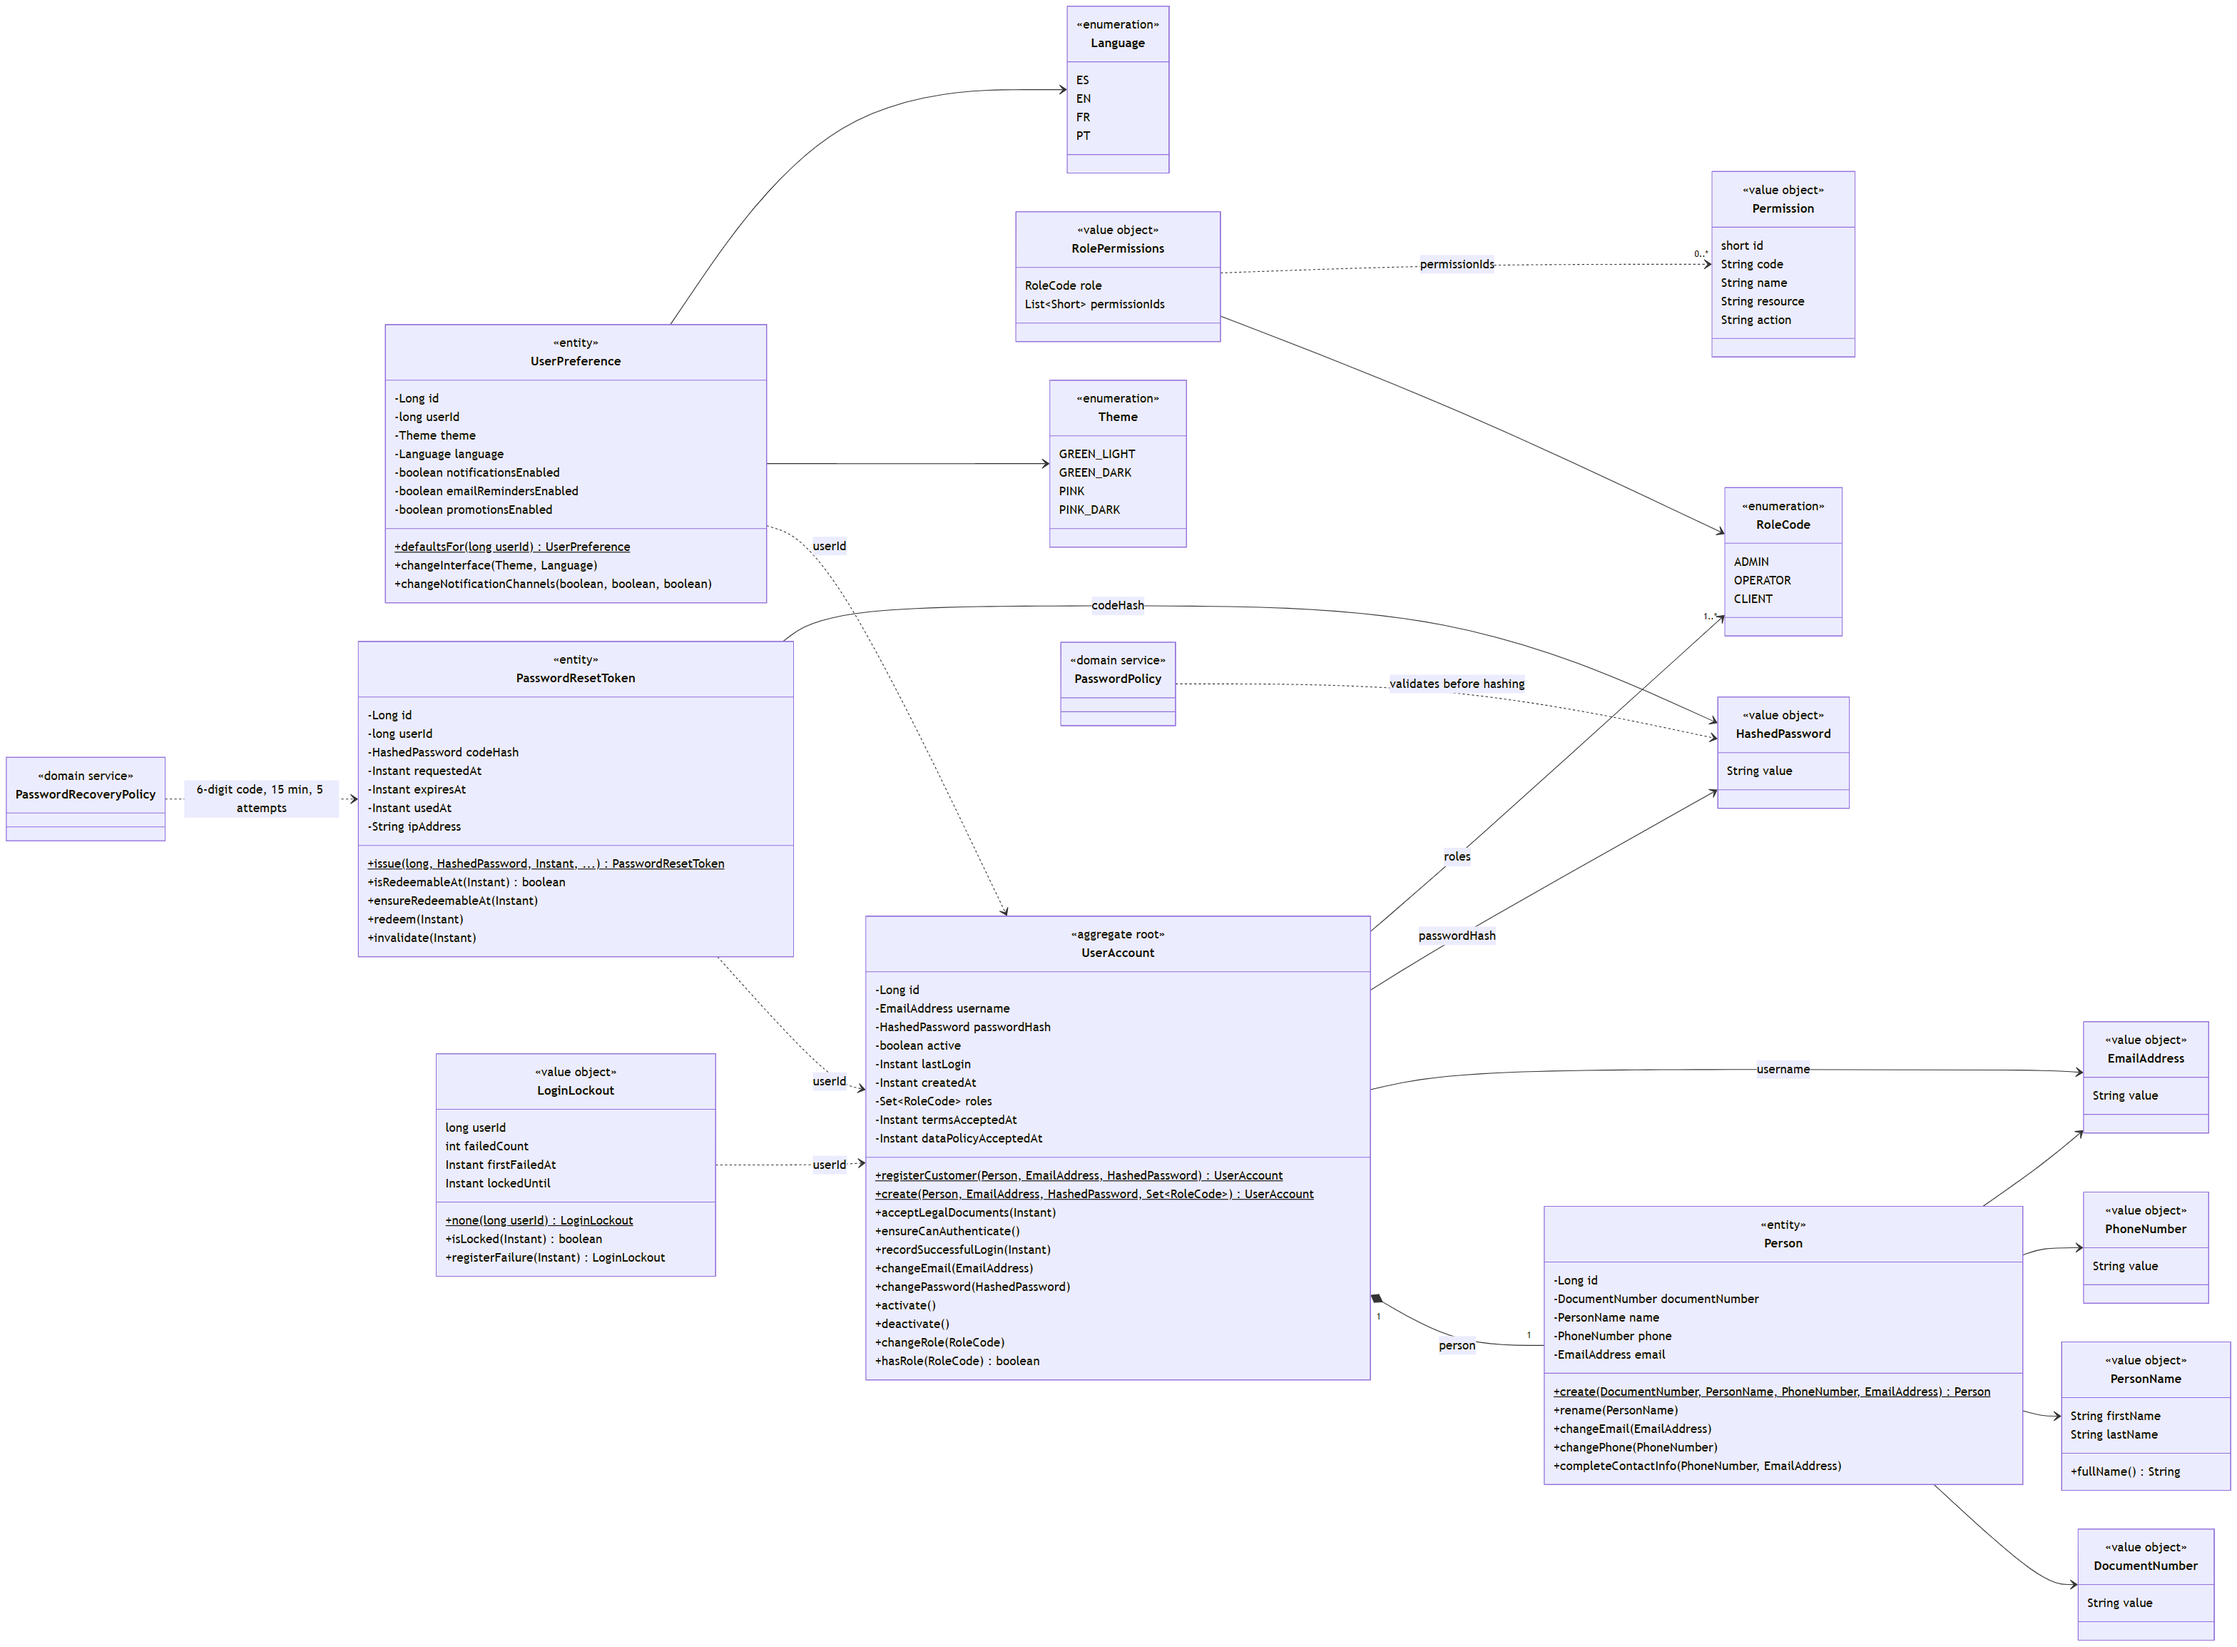
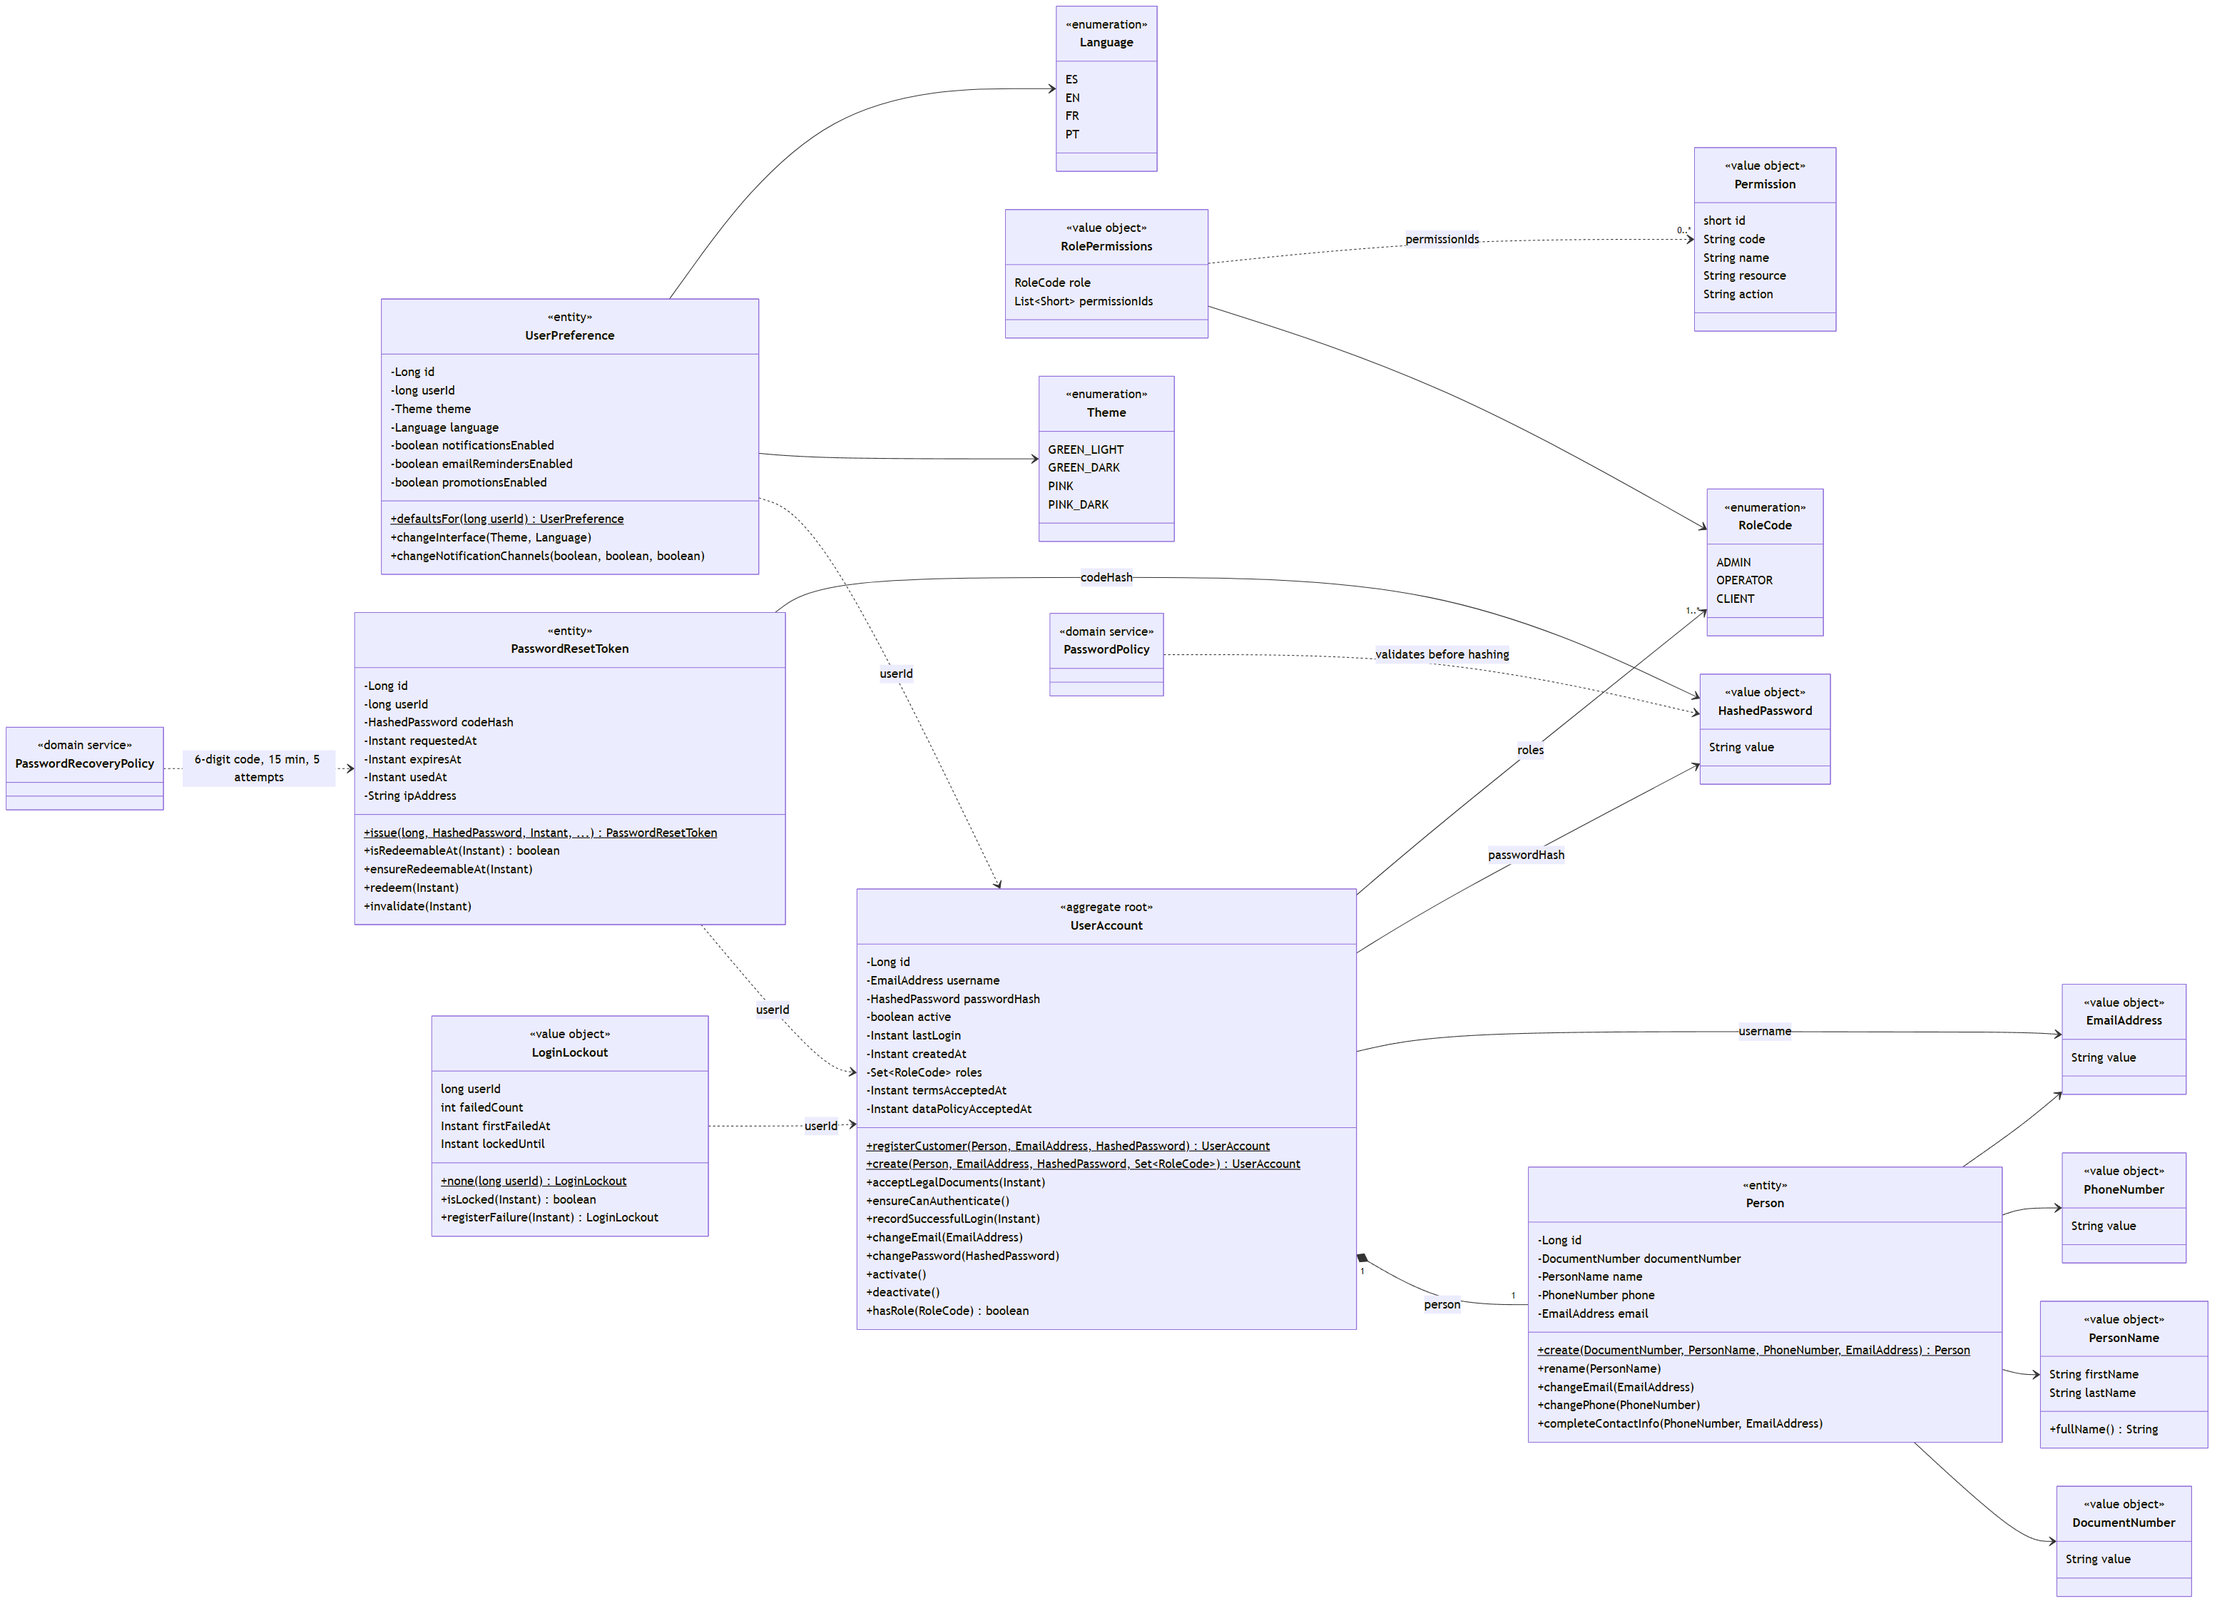
docs(security): remove the admin role change endpoint

diff --git a/08-uml/diagrams/source/state-user-account.md b/08-uml/diagrams/source/state-user-account.md
@@ -2,7 +2,7 @@
 
 Source: `security-service` `UserAccount` (`activate`, `deactivate`, `ensureCanAuthenticate`),
 `LoginLockout`, `AuthenticationService`, `UserAdministrationService.changeStatus`,
-`UserAdministrationService.changeRole`, `AccountDeactivationService.deactivateOwnAccount`,
+`AccountDeactivationService.deactivateOwnAccount`,
 `PasswordRecoveryService.resetPassword`.
 Checked on 2026-10-19.
 
@@ -19,7 +19,6 @@ stateDiagram-v2
         Unlocked --> Unlocked : successful login (clears the count)
     }
 
-    Active --> Active : admin changes its role (not their own, sessions closed)
     Active --> Inactive : admin deactivates it (not an admin account, not their own)
     Active --> Inactive : the user closes their account (password, not an admin)
     Inactive --> Active : admin activates it
@@ -31,6 +30,5 @@ stateDiagram-v2
 | An `Inactive` account answers 403 `ACCOUNT_DISABLED`, checked only after the right password | `UserAccount.ensureCanAuthenticate` |
 | An inactive account cannot ask for a recovery code (the answer looks the same) | `PasswordRecoveryService.findActiveAccount` |
 | An admin cannot deactivate their own account, from the user list or from the profile → 403 `CANNOT_DISABLE_OWN_ACCOUNT` | `CannotDisableOwnAccountException` |
-| No admin account can be deactivated; its role must be changed first → 403 `ADMIN_CANNOT_BE_DISABLED` | `AdminAccountCannotBeDisabledException` |
-| An account has one role; the new one replaces the old one, the user must log in again, and nobody changes their own role → 403 `CANNOT_CHANGE_OWN_ROLE` | `UserAccount.changeRole`, `PATCH /api/v1/admin/users/{id}/role` |
+| No admin account can be deactivated → 403 `ADMIN_CANNOT_BE_DISABLED` | `AdminAccountCannotBeDisabledException` |
 | Closing one's own account asks for the current password and closes every session | `AccountDeactivationService` |

diff --git a/08-uml/diagrams/source/uc-backend-mapping.md b/08-uml/diagrams/source/uc-backend-mapping.md
@@ -36,7 +36,7 @@ or an event listener. One use case can use several ports and services. Checked a
 | CU24 | Manage promotions | payment | `IPromotionAdminUseCases` (list, metrics, create, update, setActive, delete) |
 | CU25 | Apply promotion at payment | payment | `ICustomerPromotionUseCases.ListAvailableAsync`, `RedeemAsync`; `ILoyaltyUseCases.BalanceAsync` |
 | CU26 | Manage vehicles | customer | `ListCustomerVehiclesUseCase`, `GetCustomerVehicleUseCase`, `RegisterCustomerVehicleUseCase`, `UpdateCustomerVehicleUseCase`, `RemoveCustomerVehicleUseCase`, `ListVehicleTypesUseCase` |
-| CU27 | Administer users and permissions | security | `ListUserAccountsUseCase`, `CreateUserAccountUseCase`, `ChangeAccountStatusUseCase`, `ChangeAccountRoleUseCase`, `ListRolePermissionsUseCase`, `UpdateRolePermissionsUseCase` |
+| CU27 | Administer users and permissions | security | `ListUserAccountsUseCase`, `CreateUserAccountUseCase`, `ChangeAccountStatusUseCase`, `ListRolePermissionsUseCase`, `UpdateRolePermissionsUseCase` |
 | CU28 | Manage payment accounts | payment | `IPaymentAccountUseCases.ListAllAsync`, `ListMethodsAsync`, `CreateAsync`, `UpdateAsync` |
 | CU29 | Manage bookings | booking, customer | `BookingUseCase.list`, `get`, `create` (for a client), `reschedule`, `changeStatus`; `LookupVehiclesUseCase` |
 | CU30 | Record inspection report | operations | `InspectionUseCase` (forBooking, start, setPhaseStatus, addFinding, removeFinding, publish, share; `published` for the client's link) |

diff --git a/09-microservices/services/02-security-service/README.md b/09-microservices/services/02-security-service/README.md
@@ -74,7 +74,6 @@
 | GET · PUT | `/api/v1/users/me/preferences` (theme, language and the notification switches `notificationsEnabled` = push, `emailRemindersEnabled`, `promotionsEnabled`; PUT is partial: omitted fields keep their value) | token |
 | GET · POST | `/api/v1/admin/users` | ADMIN |
 | PATCH | `/api/v1/admin/users/{userId}/status` | ADMIN (`403 CANNOT_DISABLE_OWN_ACCOUNT` for their own account, `403 ADMIN_CANNOT_BE_DISABLED` for any admin account) |
-| PATCH | `/api/v1/admin/users/{userId}/role` (`{ "role": "CLIENT" \| "OPERATOR" \| "ADMIN" }`; the new role replaces the old one and closes the user's sessions) | ADMIN (`403 CANNOT_CHANGE_OWN_ROLE`) |
 | GET | `/api/v1/admin/roles-permissions` | ADMIN (permission catalog and what each fixed role has) |
 | PUT | `/api/v1/admin/roles-permissions/{role}` | ADMIN (`400 UNKNOWN_PERMISSION` for ids outside the catalog) |
 | GET | `/internal/v1/users/{userId}/contact` (email, first name, active, the switches `pushEnabled`, `emailRemindersEnabled`, `promotionsEnabled`, ADR-011 §12, and the account `language`). Used by notification-service (notices in the account's language) and by operations-service (first names in ratings, ADR-014 §7, and skipping disabled accounts in the automatic assignment) | internal key (`X-Internal-Key`), not routed by the gateway |

diff --git a/08-uml/diagrams/source/class-security.md b/08-uml/diagrams/source/class-security.md
@@ -26,7 +26,6 @@ classDiagram
         +changePassword(HashedPassword)
         +activate()
         +deactivate()
-        +changeRole(RoleCode)
         +hasRole(RoleCode) boolean
     }
     class Person {
@@ -167,8 +166,8 @@ Rules kept by these classes:
 - `UserAccount.ensureCanAuthenticate()` rejects an inactive account; `LoginLockout` locks the account
   after 5 failed attempts in 15 minutes (HTTP 423) and a successful login clears it.
 - `UserAccount.registerCustomer(...)` always gives the `CLIENT` role; staff accounts are created with
-  `create(...)` by an administrator. An account has one role: `changeRole` replaces it (an admin cannot
-  change their own), and an admin account cannot be deactivated until its role is changed.
+  `create(...)` by an administrator, with their role fixed at creation; an admin account cannot be
+  deactivated.
 - `PasswordResetToken` can be redeemed once, before `expiresAt`; asking for a new code invalidates the
   previous one.
 - Domain events published: `UserRegistered`, `EmailChanged`, `PasswordChanged`, `AccountDeactivated`.
